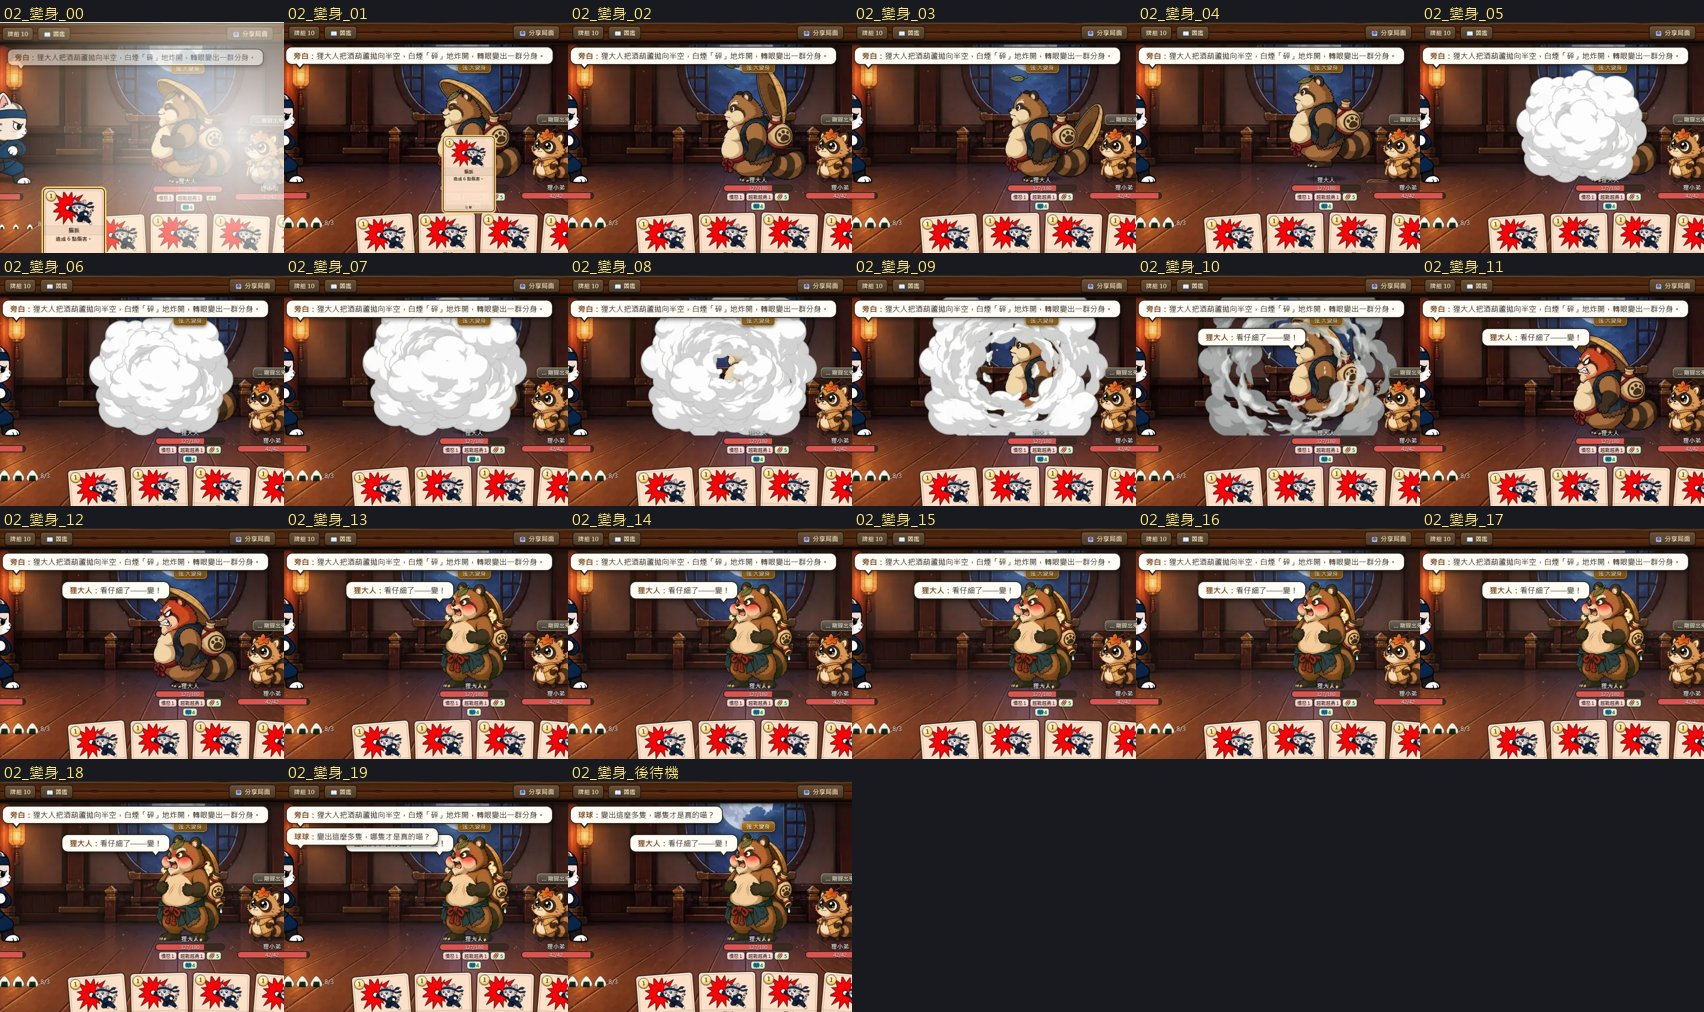
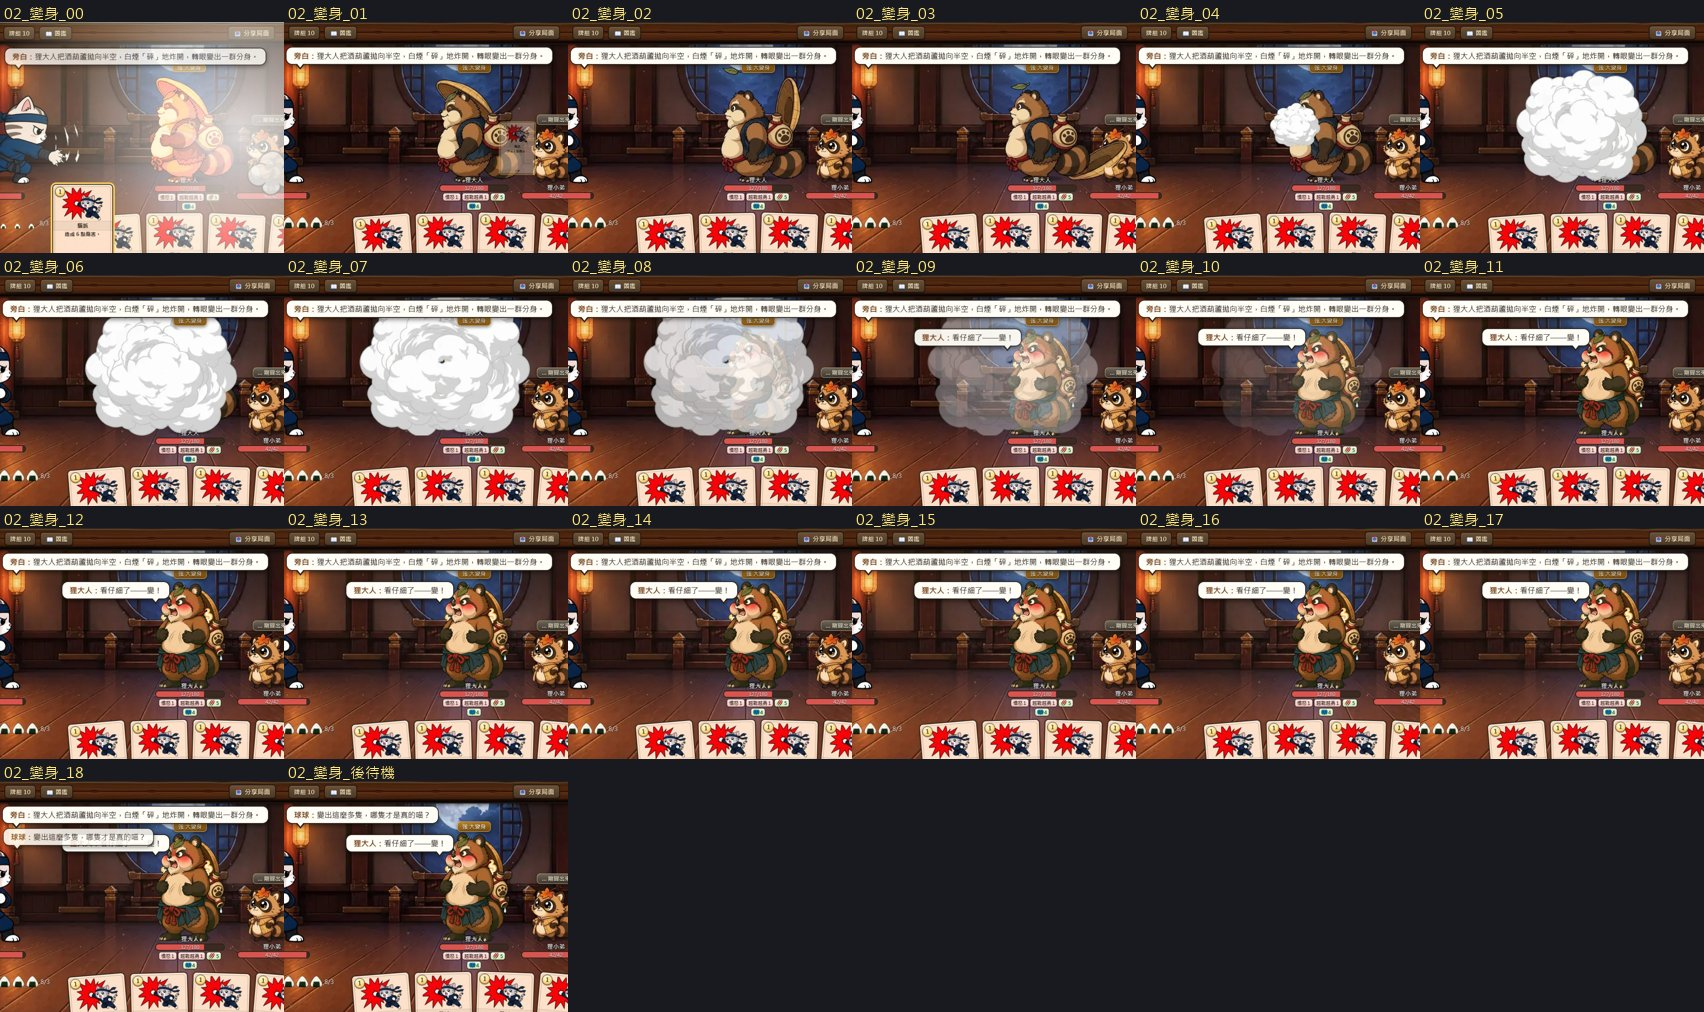
報告第二輪：狸大人變身煙最濃交還立繪的連拍、0.8 Mbps 下第二階段與招式片段各自到齊時間、出招排在挨打前面影響哪些魔物；連拍工具加打死那一步

diff --git a/docs/魔物招式片段_20261001.md b/docs/魔物招式片段_20261001.md
@@ -1,6 +1,8 @@
 # 魔物招式配自己的片段＋變身動畫（第一批，2026-10-01）
 
 分支 `motionmap-1001`（從 `coop` 的 `e8752a4c` 開出來，副本在 `F:\ClaudeWork\qiuqiu-wt-motionmap1001`）。**還沒推、沒部署、沒合併。**
+> **第二輪（審查修正，提交 `442b3852`）**：①狸大人變身改成煙最濃那一格就交還二階立繪、煙在立繪上方淡出；②下載順序改成先保第二階段的出招與爆炸。細節見第 7 節，下面第 1～6 節已照第二輪更新。
+
 素材全部用球球大冒險現成的片段（`qiuqiu-side\public\sprites\monsters\`），沒有重新生片。規格來源是 `F:\ClaudeWork\爪破_大冒險素材盤點_20261001\盤點清單.md`。
 
 ## 1. 這批做了什麼
@@ -10,7 +12,7 @@
 | 1 | 橘皮大王（一階） | 肚皮壓 | `orange_king/slam`：蹲、跳起、整隻砸下濺起煙塵、爬起來（取第 2～48 格） | 1.35 秒，24 格 | 538 KB |
 | 4 | 蛙大名（一階） | 跳壓 | `frog_daimyo/jump`：蹲、起跳，**剪掉中間站直的第 13～29 格**，接前傾、落地濺水、爬起來 | 1.35 秒，22 格 | 586 KB |
 | 5 | 蛙大名（二階） | 重跳壓（還有「跳壓」，見下面） | `frog_daimyo/jump_p2`：同上，剪掉站直的第 15～23 格 | 1.35 秒，26 格 | 708 KB |
-| 2 | 狸大人 | 換階段那一刻 | `tanuki_lord/change`：丟斗笠、白煙包住全身、散開現出紅臉（全段 96 格每 3 格取 1 格） | 1.9 秒，33 格 | 774 KB |
+| 2 | 狸大人 | 換階段那一刻 | `tanuki_lord/change`：丟斗笠、白煙包住全身，**演到煙最濃的第 60 格就交還二階立繪**，那一格煙在立繪上方淡出 0.55 秒（第 0～60 格每 3 格取 1 格） | 1.25 秒＋淡出 0.55 秒，21 格 | 363 KB |
 | 3 | 橘皮大王 | 換階段那一刻（整顆站了起來） | `orange_king/rage`：甩掉魚骨、跺腳、張嘴吼、長出尖刺（第 8～95 格每 3 格取 1 格） | 1.9 秒，30 格 | 665 KB |
 | 6 | 掃地機器人王 | 吸走（減益招） | `roomba_king/suck`：眼睛睜大、吸口捲起龍捲風（第 8～78 格，龍捲縮小的尾巴剪掉） | 1.35 秒，36 格 | 1.25 MB |
 
@@ -50,7 +52,7 @@
 | 狸大人「肚皮鼓」片段自帶白色震波圈（使用者退過同類白光） | **這批沒用那段**。肚皮鼓是減益招，盤點的建議也是之後再說，所以白色震波圈完全沒進遊戲 |
 | 蛙大名變身結尾兩顆超大紅氣球 | **這批沒做蛙大名變身**。結尾那兩顆氣球約有身體的三倍寬，剪掉結尾的話就只剩「臉頰慢慢鼓起來」，跟二階立繪（臉頰只略鼓）也接不上。蛙大名換階段維持原本的閃白＋直接換立繪。要不要做，等使用者看 `對照圖\B07` 決定 |
 | 橘皮大王變身第 14 格甩出一根魚骨 | 保留。那是「丟掉零食、開始發怒」的動作本身，不是特效 |
-| 變身結尾是側面，第二階段立繪是正面，接的那一下會跳 | 有跳，見連拍 `03`、`06`。狸大人變身結尾還戴著斗笠，二階立繪沒有。這是素材本身的差異，沒辦法用剪接解決 |
+| 變身結尾是側面，第二階段立繪是正面，接的那一下會跳 | **狸大人**（第二輪）：不再演到煙散開，煙最濃、整隻蓋住的那一格就交還二階立繪，煙在立繪上方淡出，大冒險的側面戴斗笠造型完全不露出來（連拍 `06`）。**橘皮大王**：照審查裁定先維持，結尾的側面吼叫跳到正面二階立繪那一下還在（連拍 `03`），列為已知取捨 |
 | 跳壓的騰空：大冒險的片段只有姿勢，往上跳的高度是遊戲程式算的 | **沒有自己做往上跳的弧線**（使用者沒看過那種動作，而且畫布會往上長、蓋到頭上的預告牌）。改成剪掉中間站直的那段，讀起來是「蹲 → 起跳 → 砸下」。之後要加弧線再另外討論 |
 | 片段帶煙塵、水花、龍捲（不是只有角色本身） | 都是招式的一部分，照留。新增片段讓畫布最多變多大：狸大人一階（白煙）、橘皮大王一階（煙塵）。畫布不吃點擊，也沒有程式讀它的大小 |
 | 換階段那一刻的全場閃白 | 這是原本 `phaseBurst` 就有的，不是片段裡的白光，這批沒動 |
@@ -128,12 +130,7 @@
 
 **先在地圖停 2 分鐘再開打**（模擬一路打上來，`MM_DWELL_MS=120000`，進戰鬥後再等 90 秒才讓牠出手；`dwell-base` 對 `dwell-head`）：
 - 「基本圖集到了、招式片段還沒到」的情形有真的發生：第一招肚皮壓出手時，丟魚骨頭那張已經到了，肚皮壓那張還在路上，畫面退回預設出招（丟魚骨頭那支），沒有卡住。
-- **取捨（要讓使用者知道）**：招式片段與變身排在第二階段先下載的前面（照「什麼時候會用到」排：肚皮壓最早、換階段其次、第二階段最後）。0.8 Mbps 時，第二階段的出招與爆炸圖集因此晚到：
-  - 改之前：第二階段出招那張在 242.5 秒到齊、爆炸在 249.3 秒到齊。
-  - 改之後：同一段時間先下載肚皮壓（242.5 秒到齊）與變身（到結束都還沒到齊），第二階段兩張到結束都還沒到。
-  - 估算：橘皮大王多排了約 1.2 MB，0.8 Mbps 下第二階段大約晚 12 秒；蛙大名約 0.6 MB、晚約 6 秒；狸大人約 0.8 MB、晚約 8 秒。
-  - 鐵爪機關貓（10-01 調過慢網路爆炸的那一隻）沒有額外片段，不受影響。
-  - 如果使用者比較在意慢網路下第二階段的爆炸，可以改成「第二階段先、招式片段後」，只要動 `enemy-motion.ts` 排隊的那一行。
+- **下載順序（第二輪已改）**：見第 7 節。現在第二階段的出招與爆炸排在招式片段與變身前面，跟沒有這批時同一個時間到。
 
 **片段圖集下載失敗**（`MM_BLOCK`，用瀏覽器除錯介面擋掉那幾張）：
 - 橘皮大王擋掉肚皮壓與變身兩張：肚皮壓退回預設出招（`orange_king.attack(throw)`）；換階段照舊閃白、直接換立繪；之後的回合都正常（`09a`、`09b`）。
@@ -172,3 +169,65 @@
 1. `docs/魔物招式片段_20261001/` 的 `01`～`07`：每一段的樣子、跟第二階段立繪的接縫（`03`、`06`）。
 2. 第 2 節「出招排在挨打前面」：這條會影響所有接了逐格的魔物，中毒時出手的樣子。
 3. 蛙大名變身要不要做，等使用者看 `對照圖\B07`。
+
+## 7. 第二輪（審查修正，2026-10-01，提交 `442b3852`）
+
+### 7.1 狸大人變身：煙最濃那一格交還二階立繪
+
+- 原本演完整段 96 格：煙散開後先露出大冒險的「側面、戴斗笠、紅臉」造型，再跳成正面二階立繪，很明顯。
+- 改成只演到第 60 格。逐格算過露出身體顏色的像素：第 52～63 格裡第 60 格最少（1,643 個），煙把身體和尾巴都蓋住。
+- 那一格停住、交還二階立繪，同一張畫布留在立繪上方淡出 0.55 秒，淡完才丟。立繪在煙底下慢慢露出來，不換畫質、不疊別的圖。
+- 長度：前段速度照舊（約 2 倍速），1.25 秒＋淡出 0.55 秒，總長跟原本 1.9 秒差不多。圖集從 774 KB 變成 363 KB。
+- 做法放在資料裡（變身片段帶「淡出幾秒」），所以只有狸大人會淡出；橘皮大王沒有這一欄，照舊演完直接交還。
+- 連拍：`06_狸大人_變身.jpg`（快網路，第 7 格煙最濃，第 8～10 格煙在二階立繪上淡出）、`12_狸大人_變身_慢網路.jpg`（0.8 Mbps）、`11_狸大人_二階倒下.jpg`。
+
+### 7.2 下載順序：先保第二階段
+
+- 塔主照這個順序排：
+  1. 這一階段的基本圖集
+  2. 第二階段的出招與爆炸
+  3. 這一階段的招式片段與變身
+  4. 第二階段的招式片段
+- 沒有第二階段的魔物（掃地機器人王），就緒之後就排招式片段。
+- 額外片段不再在「這一套就緒」時自動排，改由 `combat.ts` 決定順序（`prefetchEnemyMotionExtras`）。
+
+0.8 Mbps／300 毫秒，先在地圖停 2 分鐘再開打（秒數是從開這一頁算起，兩次執行有 2～3 秒的誤差）：
+
+| 圖集 | 沒有這批（`e8752a4c`） | 第一輪（招式片段排前面） | 第二輪（第二階段排前面） |
+|---|---|---|---|
+| 橘皮大王 二階出招 `jump_p2` | 242.5 秒 | 到結束（249.7 秒）都沒到 | **239.1 秒** |
+| 橘皮大王 二階爆炸 `down_p2` | 249.3 秒 | 到結束都沒到 | **243.2 秒** |
+| 橘皮大王 肚皮壓 `slam` | — | 242.5 秒 | 272.6 秒 |
+| 橘皮大王 變身 `rage` | — | 到結束都沒到 | 276.8 秒 |
+| 狸大人 二階出招 `stomp_p2` | — | — | 238.5 秒 |
+| 狸大人 二階倒下 `down_p2` | — | — | 241.4 秒 |
+| 狸大人 變身 `change` | — | — | 267.1 秒 |
+
+- 二階出招與爆炸回到跟沒有這批時同一個水準（差的 3～6 秒在兩次執行的誤差範圍內），招式片段與變身晚它們約 30 秒才到。
+- 這段時間牠出肚皮壓會退回預設出招，換階段會照舊閃白、直接換立繪，都不卡住；到了之後就照常播（`ok-slow-long`：肚皮壓、變身、二階出招、爆炸都播出來了，`13_橘皮大王_二階倒下_慢網路.jpg`）。
+
+### 7.3 「出招排在挨打前面」影響哪些魔物（審查要特別看）
+
+- 改的是 `combat.ts` 的 `mountEnemyMotion`（這一拍播出招還是挨打）與 `playEnemyMotion`（出招演到一半，挨打不打斷）。
+- 只在「這一拍牠有出手、而且同一步掉了血」時才有差。同一步掉血通常是：
+  - 回合開頭的中毒結算；
+  - 打到身上帶反彈的對象被刺回來。
+- 受影響的是所有有逐格動作的魔物：
+  - 從大冒險搬來的 17 隻：鐵爪機關貓、掃地機器人王、蛙大名、橘皮大王、狸大人、太鼓狸、塔頂守護石像、鐵羅漢、面具舞者、空鎧武者、河童、燈籠妖、橘貓山賊、鎧甲獨角仙、烏天狗、吸塵器、怨靈武者。
+    - 以前：退回待機，也就是靜態立繪或飄浮循環，出招片段整拍不演。
+    - 現在：播出招片段。
+  - 小老鼠兵、鼠親兵、黑貓忍者、黑貓忍者（老手）、陪練的黑貓：這兩套有真的挨打片段。
+    - 以前：同一步出手又掉血時，播的是挨打。
+    - 現在：播出招，紅閃與數字照舊。
+- 沒有逐格動作的魔物（靜態立繪那幾十隻）不受影響。它們的靜態立繪本來就是出招排在挨打前面（稽核 2026-09-08 中 1）。
+
+### 7.4 驗證（第二輪）
+
+- `npm test`：3,968 項通過、12 項略過、0 失敗。
+- 第二輪新加或改的測試，故意改壞 4 種，每種都有測試變紅：
+  - 招式片段排回第二階段前面
+  - 狸大人不淡出、直接收畫布
+  - 沒有第二階段的魔物不排招式片段
+  - 就緒時自動排招式片段
+- 首載程式 699,337 位元組，沒變。
+- 畫面比對閘門對 `e8752a4c`：四道全過，0 項要人看，`allow.json` 沒動。報告在 `F:\ClaudeWork\qiuqiu-gate-reports\20261001-113637\report.html`。
